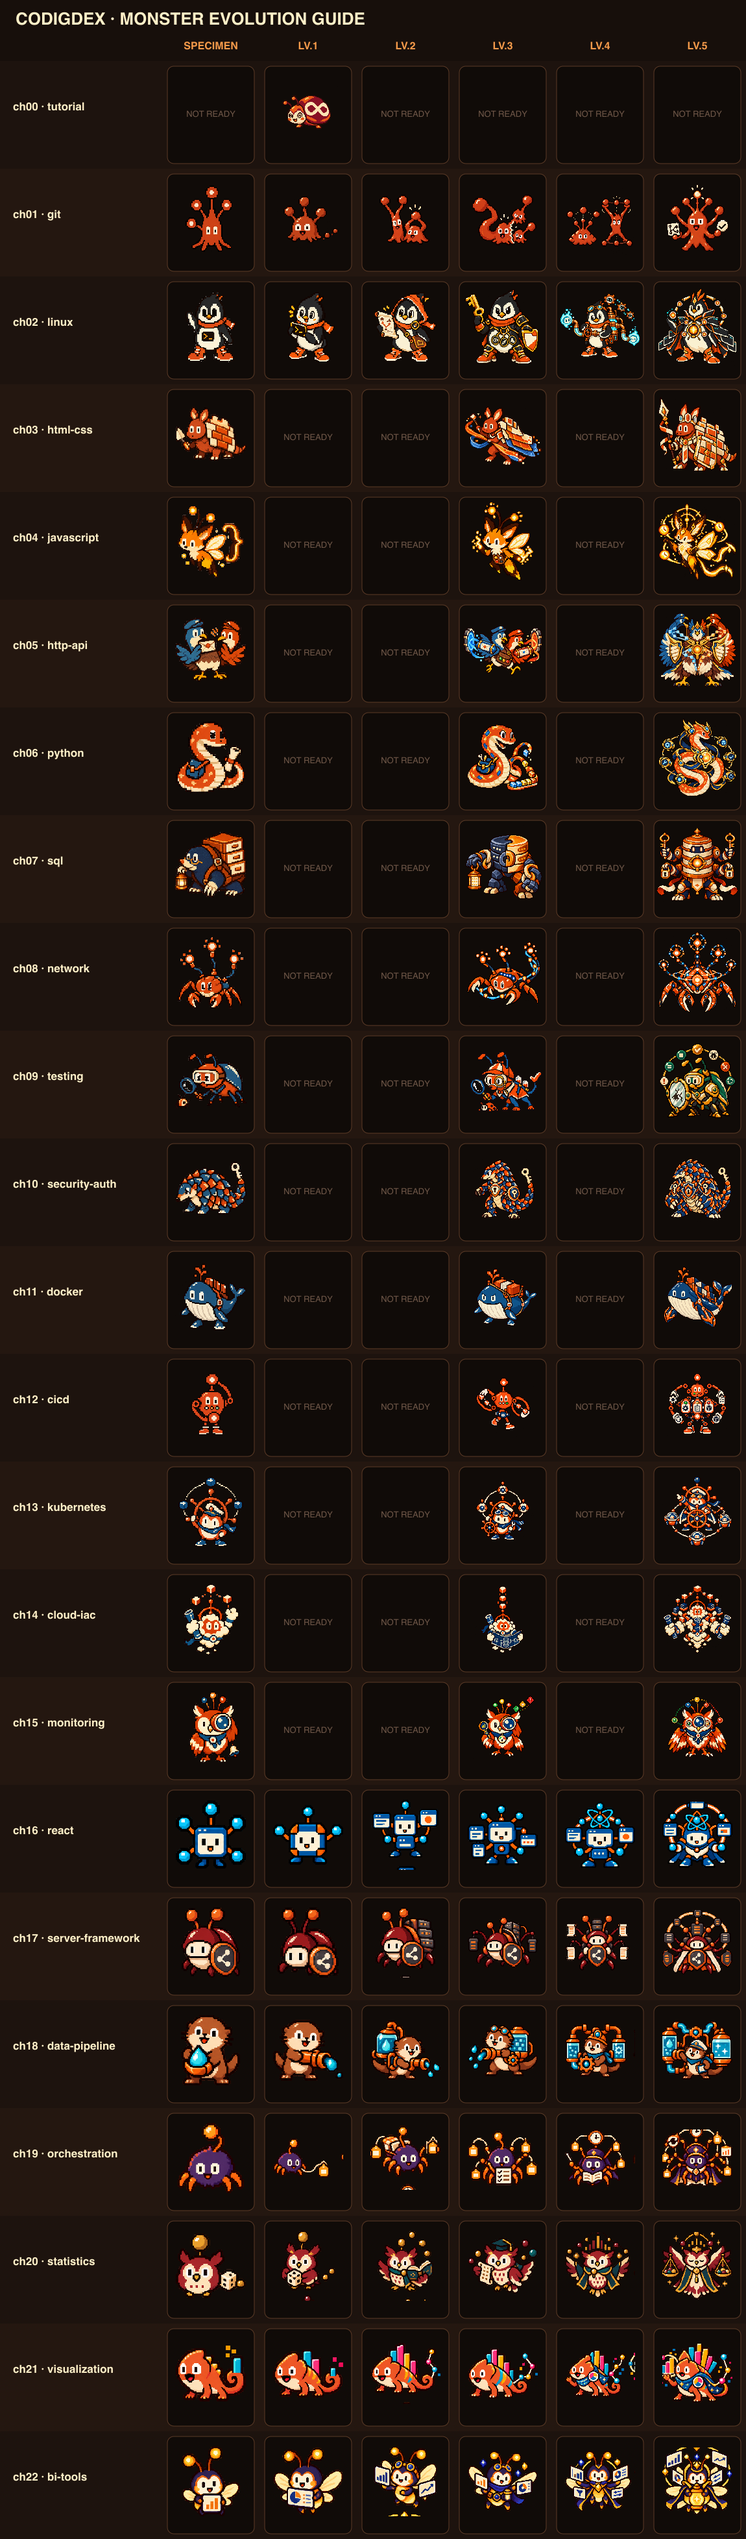
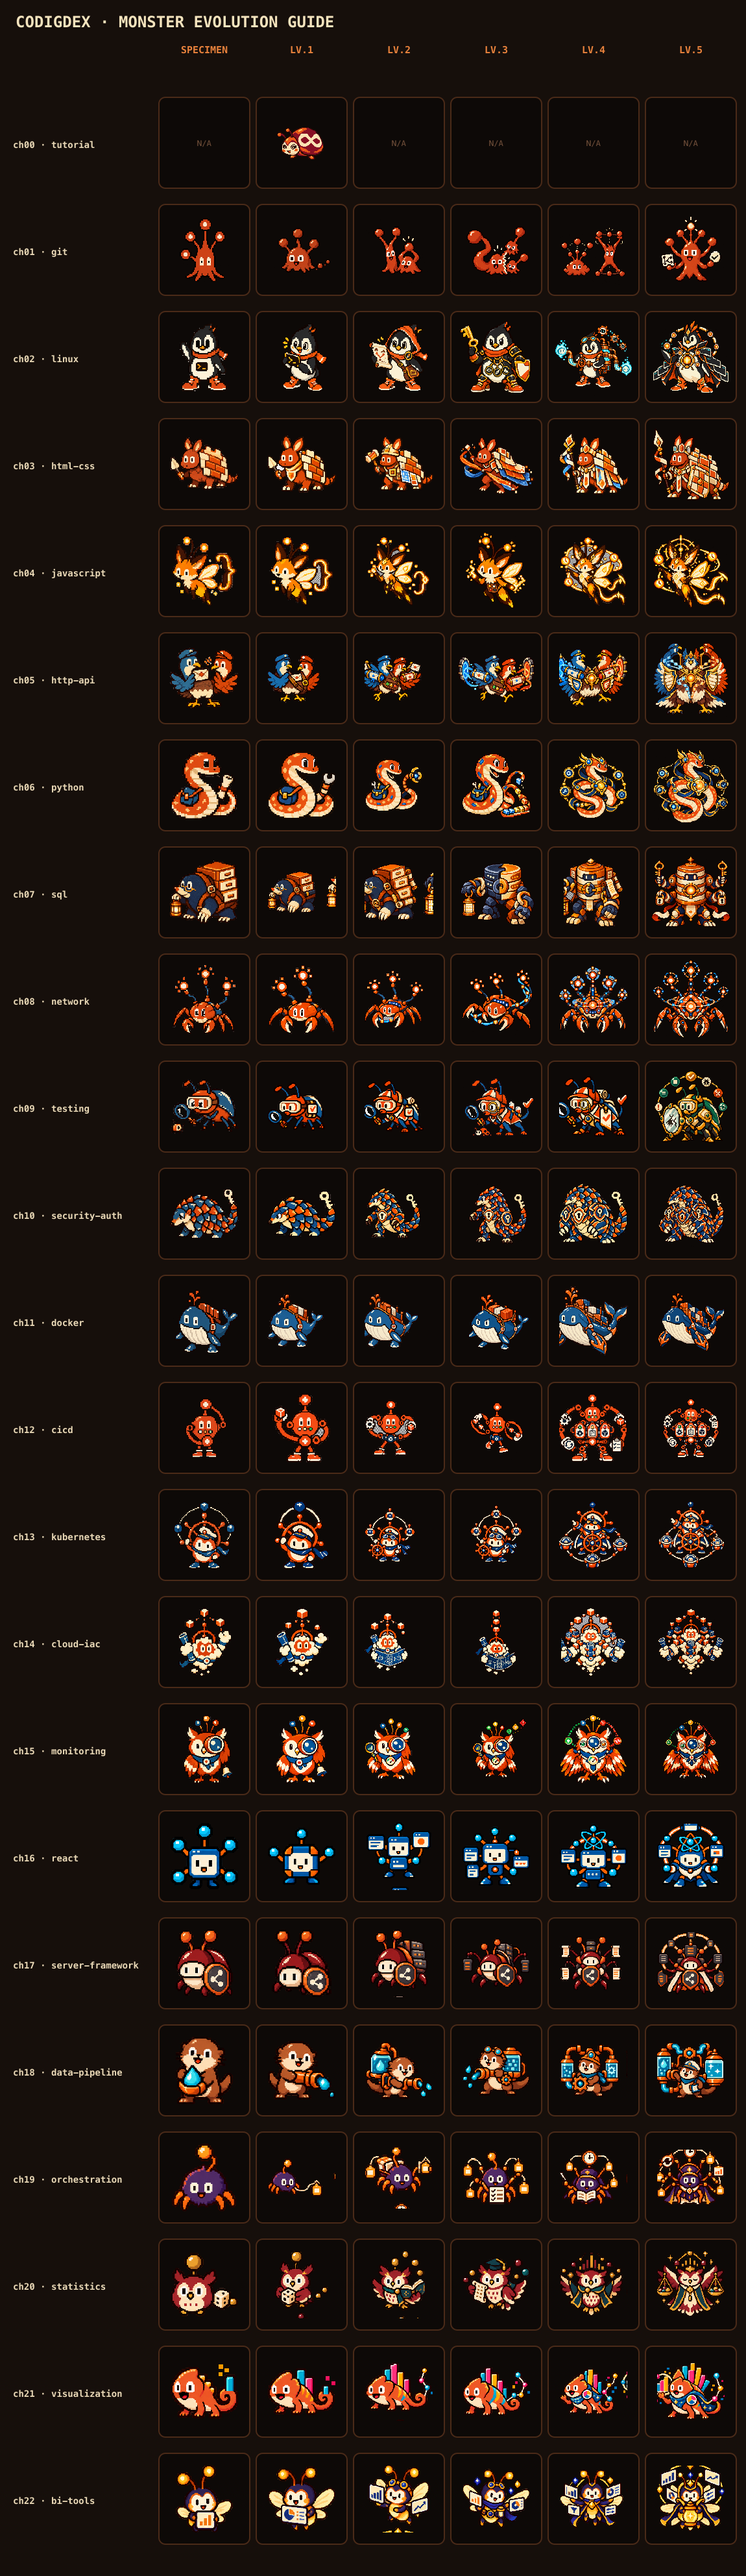
feat: complete planned monster evolutions

diff --git a/web/test/domain/assets.test.ts b/web/test/domain/assets.test.ts
@@ -1,4 +1,4 @@
-import { existsSync } from "node:fs";
+import { existsSync, readdirSync } from "node:fs";
 import path from "node:path";
 import { describe, expect, it } from "vitest";
 import { CHAPTERS } from "@/lib/domain/chapters";
@@ -27,5 +27,21 @@ const referencedAssets = [
 describe("referenced art", () => {
   it.each([...new Set(referencedAssets)])("%s exists under public/", (assetPath) => {
     expect(existsSync(path.join(PUBLIC_DIR, assetPath))).toBe(true);
+  });
+
+  it("keeps every non-tutorial monster family complete from specimen through Lv.5", () => {
+    const monsterRoot = path.join(PUBLIC_DIR, "assets/monsters");
+    const chapterFolders = readdirSync(monsterRoot, { withFileTypes: true })
+      .filter((entry) => entry.isDirectory() && /^ch(?:0[1-9]|1\d|2[0-2])\./.test(entry.name))
+      .map((entry) => entry.name);
+
+    expect(chapterFolders).toHaveLength(22);
+    chapterFolders.forEach((folder) => {
+      const files = readdirSync(path.join(monsterRoot, folder));
+      expect(files.some((file) => file.includes("specimen")), `${folder} specimen`).toBe(true);
+      for (let level = 1; level <= 5; level += 1) {
+        expect(files.some((file) => file.endsWith(`-lv${level}.png`)), `${folder} Lv.${level}`).toBe(true);
+      }
+    });
   });
 });

diff --git a/docs/CAREER_PATH_DESIGN.md b/docs/CAREER_PATH_DESIGN.md
@@ -148,7 +148,7 @@ Path 계층은 화면 왼쪽부터 **전직 전 주니어 개발자 → 1차 직
 | 데이터 엔지니어 | 6 | 6 | 없음 |
 | 데이터 분석가 | 5 | 5 | 없음 |
 
-현재 기술 구역 28개는 모두 일치하는 대표 개체를 갖는다. 새로 보강한 React, 서버 프레임워크, 데이터 파이프라인, 워크플로 오케스트레이션, 기초 통계, 데이터 시각화, BI 도구는 표본과 Lv.1~Lv.5 진화 세트까지 준비했다. 전체 준비 현황은 `web/public/assets/monsters/all-monster-evolution-guide-v1.png`에서 한눈에 확인할 수 있다. 기존 전문 기술 ch03~ch15는 여전히 대부분 Lv.1·Lv.2·Lv.4 제작이 남아 있으며, 현황 이미지에서 `NOT READY`로 표시한다.
+현재 기술 구역 28개는 모두 일치하는 대표 개체를 갖는다. ch03~ch15의 빠져 있던 Lv.1·Lv.2·Lv.4를 보강했고, React부터 BI 도구까지 새 기술군도 표본과 Lv.1~Lv.5 진화 세트를 준비했다. 전체 준비 현황은 `web/public/assets/monsters/all-monster-evolution-guide-v1.png`에서 한눈에 확인할 수 있다. 튜토리얼의 루프 버그는 진화하지 않는 단일 단계 개체이므로 나머지 칸을 `N/A`로 표시한다.
 
 기술 이름을 로고처럼 붙이는 대신, 기술의 대표 개념을 도감에서 기억할 수 있는 생물 실루엣으로 바꾼다. 기존 블로그의 Git 개체를 시각적 기준점으로 삼아 굵은 어두운 외곽선, 따뜻한 크림색, Git 오렌지 포인트, 작은 흰색 눈을 공통 문법으로 사용한다.
 
